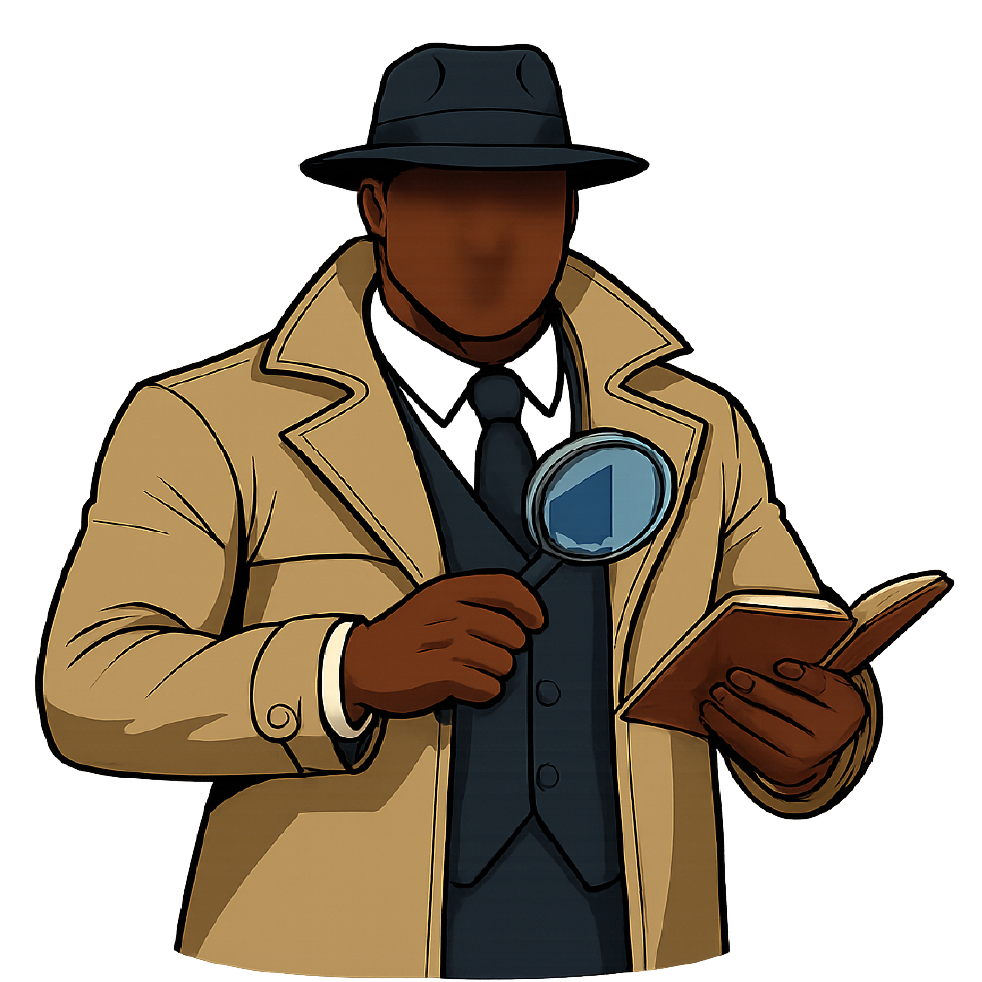
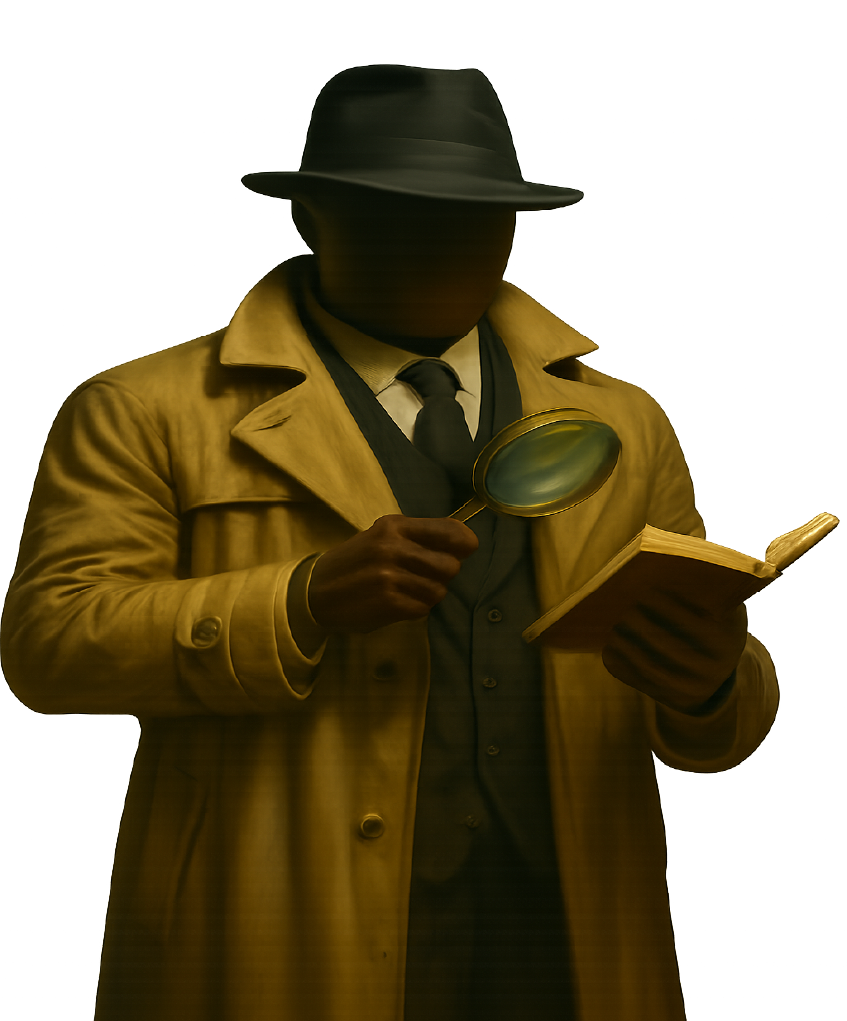
images

diff --git a/src/app/_components/about.tsx b/src/app/_components/about.tsx
@@ -1,13 +1,13 @@
 import Image from "next/image";
 import about1Img from "../../../public/about-1.png";
-import about2Img from "../../../public/about-2.png";
+import about2Img from "../../../public/about-4.png";
 import { Check } from "lucide-react";
 import { WhatsappLogo } from "@phosphor-icons/react/dist/ssr";
 import { EnvelopeIcon } from "@phosphor-icons/react/dist/ssr";
 
 export function About() {
   return (
-    <section className="bg-[#faf4eb] py-16">
+    <section className="bg-[#ffffffec] py-16">
       <div className="container px-4 mx-auto">
         <div className="grid grid-cols-1 lg:grid-cols-2 gap-12 items-center">
           <div

diff --git a/src/app/_components/hero.tsx b/src/app/_components/hero.tsx
@@ -13,7 +13,7 @@ export function Hero() {
           fill
           sizes="100vw"
           priority
-          className="object-cover opacity-40 lg:hidden"
+          className="object-cover opacity-50 lg:hidden"
         />
       </div>
 
